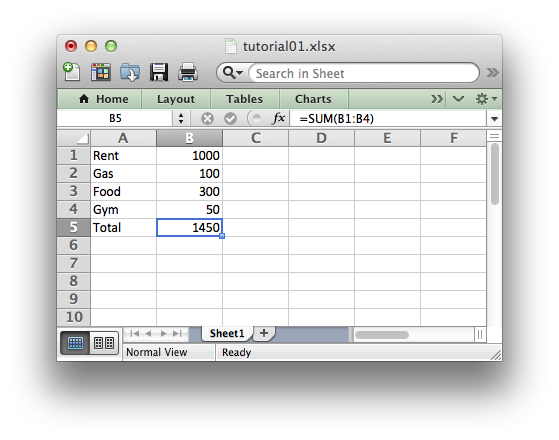
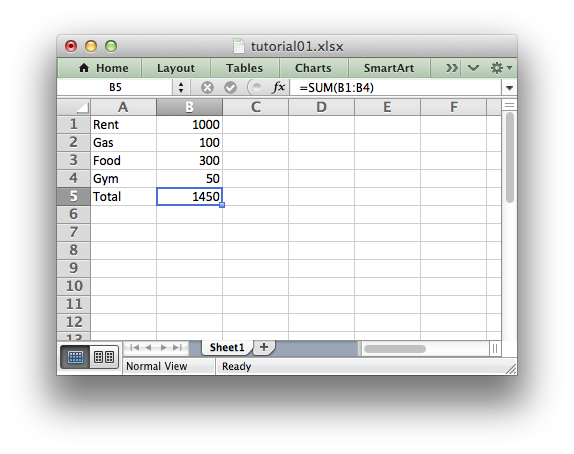
Added more images to the docs.

Changed region(s): [[0.0912, 0.0591, 0.9123, 0.8273]]

diff --git a/xlsxwriter/worksheet.py b/xlsxwriter/worksheet.py
@@ -541,7 +541,7 @@ class Worksheet(xmlwriter.XMLwriter):
         self.hidden = 0
 
     def set_column(self, firstcol, lastcol, width, cell_format=None,
-                         options={}):
+                   options={}):
         """
         Set the width, and other properties of a single column or a
         range of columns.

diff --git a/xlsxwriter/test/comparison/test_simple04.py b/xlsxwriter/test/comparison/test_simple04.py
@@ -126,7 +126,6 @@ class TestCompareXLSXFiles(unittest.TestCase):
 
         self.assertEqual(got, exp)
 
-
     def tearDown(self):
         # Cleanup.
         if os.path.exists(self.got_filename):

diff --git a/xlsxwriter/test/worksheet/test_worksheet09.py b/xlsxwriter/test/worksheet/test_worksheet09.py
@@ -132,6 +132,5 @@ class TestAssembleWorksheet(unittest.TestCase):
         self.assertEqual(got, exp)
 
 
-
 if __name__ == '__main__':
     unittest.main()

diff --git a/dev/docs/source/worksheet.rst b/dev/docs/source/worksheet.rst
@@ -46,13 +46,14 @@ The general rule is that if the data looks like a *something* then a
 
 
     worksheet.write(0, 0, 'Hello')          # write_string()
-    worksheet.write(1, 0, 'One')            # write_string()
+    worksheet.write(1, 0, 'World')          # write_string()
     worksheet.write(2, 0, 2)                # write_number()
     worksheet.write(3, 0, 3.00001)          # write_number()
-    worksheet.write(4, 0, '')               # write_blank()
-    worksheet.write(5, 0, None)             # write_blank()
-    worksheet.write(6, 0, '=SIN(PI()/4)')   # write_formula()
+    worksheet.write(4, 0, '=SIN(PI()/4)')   # write_formula()
+    worksheet.write(5, 0, '')               # write_blank()
+    worksheet.write(6, 0, None)             # write_blank()
 
+.. image:: _static/worksheet01.png
 
 The ``write()`` method supports two forms of notation to designate the
 position of cells: **Row-column** notation and **A1** notation::

diff --git a/dev/docs/source/workbook.rst b/dev/docs/source/workbook.rst
@@ -29,6 +29,8 @@ given filename::
 
     worksheet.write(0, 0, 'Hello Excel')
 
+.. image:: _static/workbook01.png
+
 It is recommended that the filename uses the extension ``.xlsx`` rather than
 ``.xls`` since the latter causes an Excel warning when used with the XLSX
 format.
